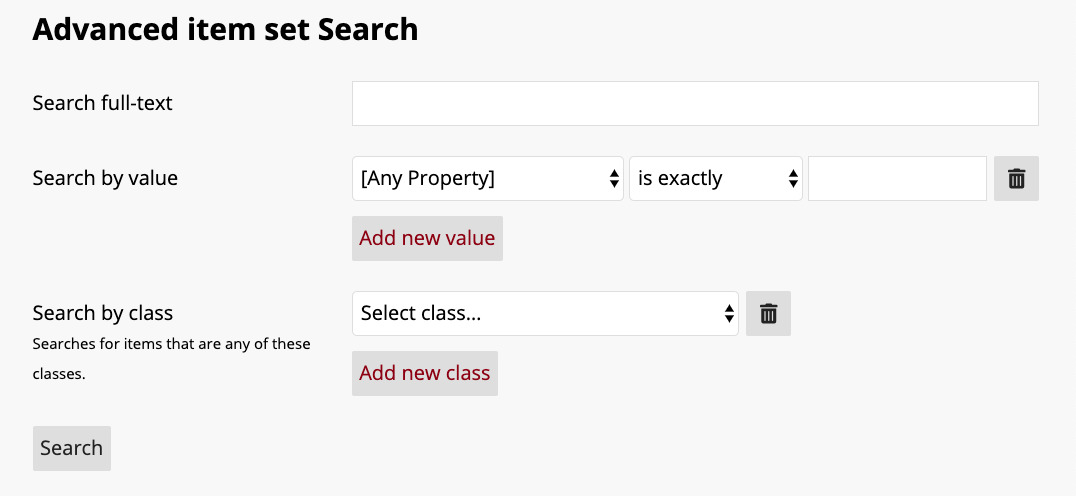
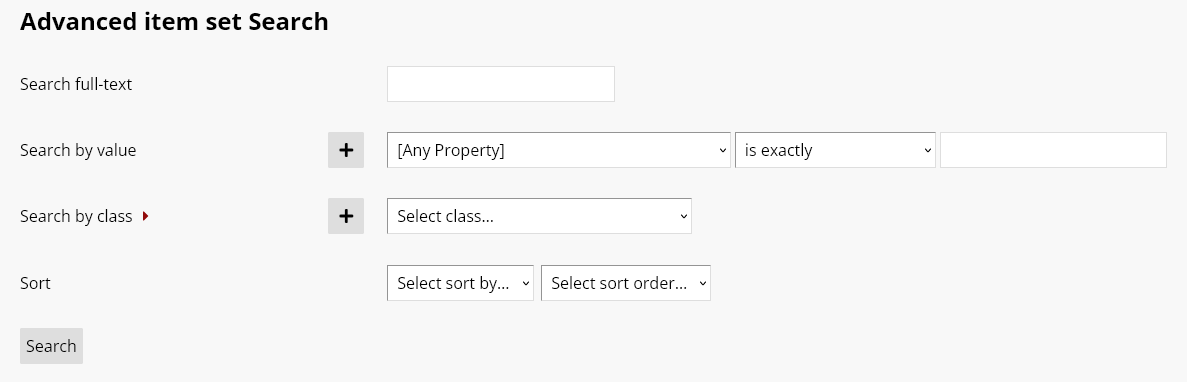
IS and public views

diff --git a/docs/search.md b/docs/search.md
@@ -112,8 +112,12 @@ The advanced search loads on a new page, and has the following options:
 	- Finally, there is a text field for you to enter the value you want the property to have.
 	- To find a resource ID, go to the resource and look at the URL in your browser's address bar. The numbers at the end of the URL are the resource ID. 
 	- You can remove value searches using the red trash can icon to the right of the value settings.
-- **Search by Class**: select a class by which to search from the dropdown menu
+- **Search by class**: select a class by which to search from the dropdown menu
 - **Search by template**: select a resource template from the dropdown. Templates are arranged by owner, then alphabetically.
+- **Search by owner**: select a user from a dropdown of users in the installation.
+- **Search by visibility**: select whether the results are public or private item sets.
+
+You can also select how to order your search results.
 
 ![Advanced item set search options form, with fields as described above.](files/advancedsearchis2.png)
 
@@ -140,10 +144,10 @@ Site visitors can access an advanced item search from the Browse Items page, if 
 
 Clicking this loads a new page with four options for search:
 
-- **Search full-text**: runs a full-text search on all of the text for every item in the installation.
+- **Search full-text**: runs a full-text search on all of the text for every item in the site.
 - **Search by value**: search for a term or phrase using multiple options.
 	- The first selector allows you to specify a property to search. 
-		- Note that if you have have the [site settings](sites/site_settings.md#search) to restrict search to templates, this will only display the properties used by those templates. 
+		- Note that if you have have the [site set](sites/site_settings.md#search) to restrict search to templates, this will only display the properties used by those templates. 
 	- The second selector allows you to set the relationship the property has with the value. The options are:
 		- is exactly, 
 		- is not exactly, 
@@ -155,26 +159,28 @@ Clicking this loads a new page with four options for search:
 		- has no values.
 	- Finally, there is a text field for you to enter the value you want the property to have.
 	- To find a resource ID, go to the resource and look at the URL in your browser's address bar. The numbers at the end of the URL are the resource ID. 
-- **Search by class**: select a class by which to search from the dropdown menu. 
-- **Search by item set**: select from a dropdown of item sets.
+- **Search by class**: select one or more classes by which to search from the dropdown menu. 
+- **Search by media presence**: select whether the results have media or do not have media.
+
+You can also select how to order your search results.
 
 ![Advanced item search fields as described](files/search_publicitems2.png)
 
-Searches by value, class, and item set allow a visitor to search by more than one input; they can use the "Add new" buttons to search with more than one search term. These search terms build - searching for two item sets will return all items in either item set, rather than only those items which are in both. 
+Searches by value, class, and item set allow a visitor to search by more than one input; they can use the "Add new" buttons (plus sign) to search with more than one search term. These search terms build - searching for two item sets will return all items in either item set, rather than only those items which are in both. 
 
 Site visitors can remove value and item set searches using the red trash can icon to the right of those search options.
 
 ### Advanced item set search
-Site visitors can access an advanced item set search from the Browse Items Sets page, if you have that page accessible. There is a link for Advanced search on the upper left of the Item Sets page. 
+Site visitors can access an advanced item set search from the Browse Items Sets page, if you have that page accessible. There is a link for Advanced search near the top of the Item Sets page. 
 
 ![Item sets page for the Jane Austen site. A blue arrow points to the advanced search link](files/search_publicitemsets1.png)
 
 Clicking the advanced search link loads a new page with three options for search:
 
-- **Search full-text**: runs a full-text search on all of the text for every item set in the installation.
+- **Search full-text**: runs a full-text search on all of the text for every item set in the site.
 - **Search by value**: search for a term or phrase using multiple options.
 	- The first selector allows you to specify a property to search. 
-		- Note that if you have have the [site settings](sites/site_settings.md#search) to restrict search to templates, this will only display the properties used by those templates. 
+		- Note that if you have have the [site set](sites/site_settings.md#search) to restrict search to templates, this will only display the properties used by those templates. 
 	- The second selector allows you to set the relationship the property has with the value. The options are:
 		- is exactly, 
 		- is not exactly, 
@@ -186,10 +192,12 @@ Clicking the advanced search link loads a new page with three options for search
 		- has no values.
 	- Finally, there is a text field for you to enter the value you want the property to have.
 	- To find a resource ID, go to the resource and look at the URL in your browser's address bar. The numbers at the end of the URL are the resource ID. 
-- **Search by class**: select a class by which to search from the dropdown menu. 
+- **Search by class**: select one or more classes by which to search from the dropdown menu. 
+
+You can also select how to order your search results.
 
 ![Item set advanced search options as described](files/search_publicitemsets2.png)
 
-Searches by value and class allow a visitor to search by more than one input; they can use the "Add new" buttons to search with more than one search term. These search terms build - searching for two classes will return all item sets which have either class. 
+Searches by value and class allow a visitor to search by more than one input; they can use the "Add new" buttons (plus sign) to search with more than one search term. These search terms build - searching for two classes will return all item sets which have either class. 
 
 Site visitors can remove value and item set searches using the red trash can icon to the right of those search options.
